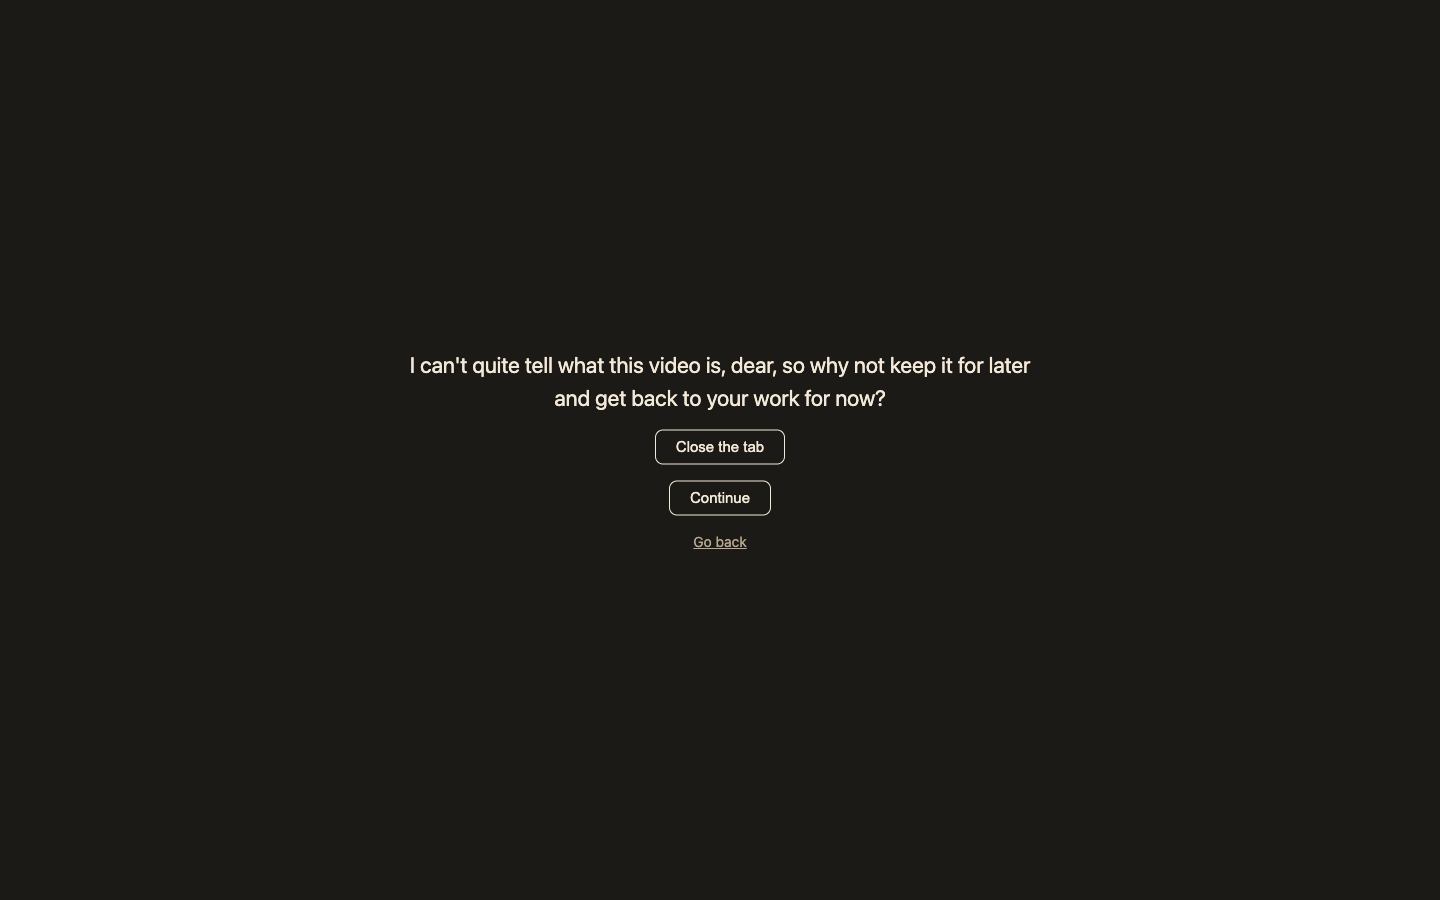
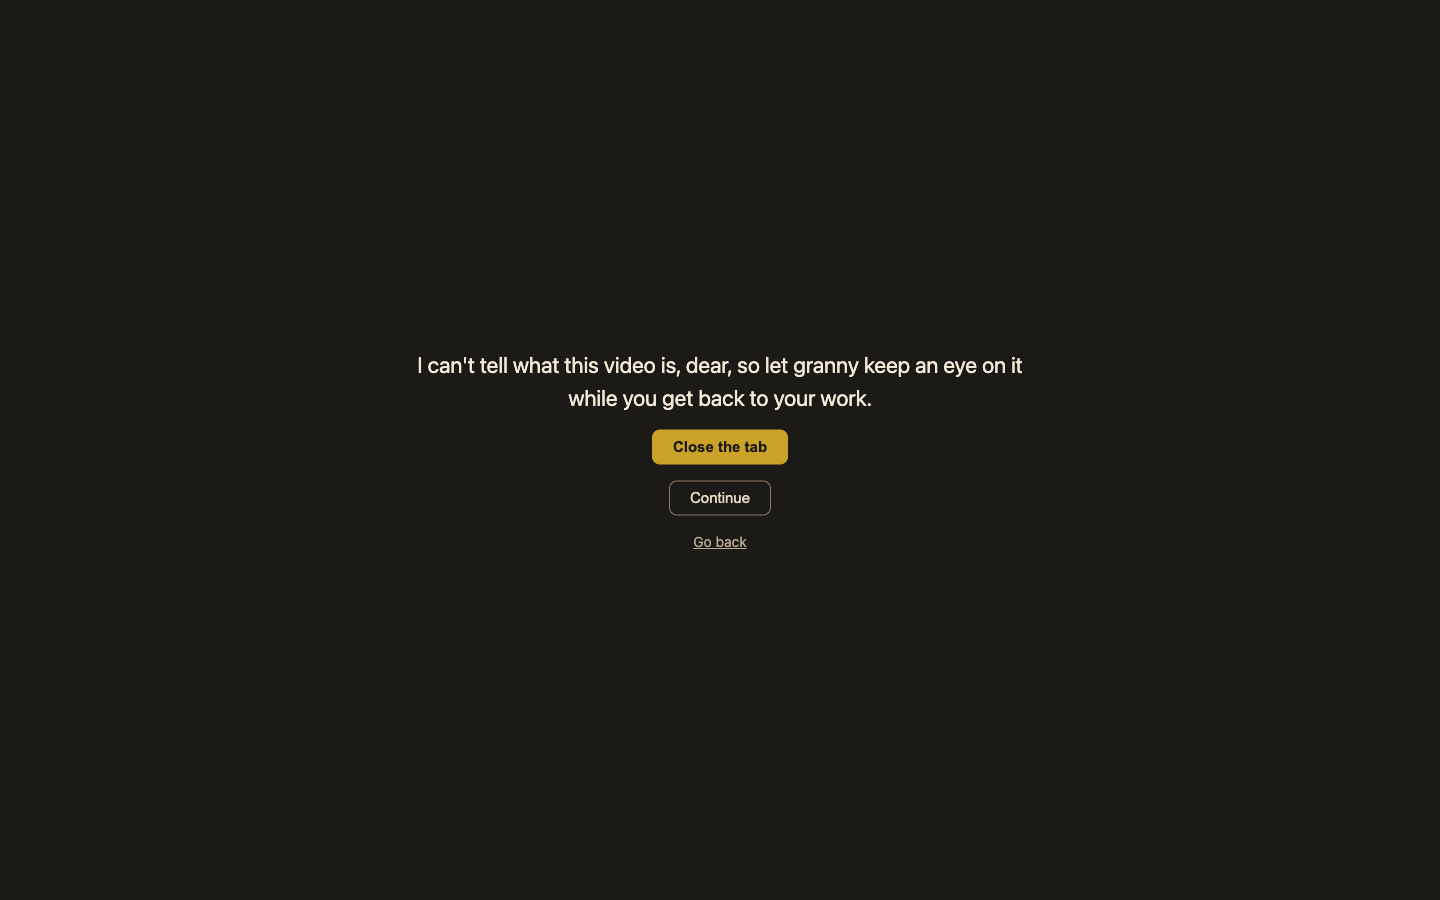
docs(blog): refresh the warn screenshots for the new button weights

Changed region(s): [[0.2812, 0.3733, 0.7188, 0.5289]]

diff --git a/app/blog/install-extension/page.tsx b/app/blog/install-extension/page.tsx
@@ -251,7 +251,7 @@ export default function InstallExtension() {
                     alt="The granny warning on a YouTube video in Safari"
                     caption="The warning, in Safari"
                     width={2872}
-                    height={1946}
+                    height={2070}
                   />
                 </Step>
               </ol>
